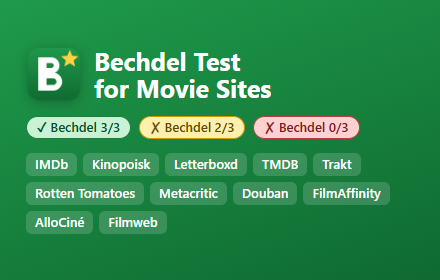
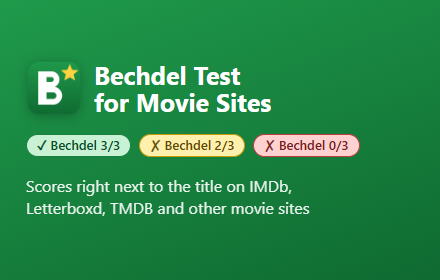
Stop naming supported sites in the store listing
The store rejected 2.0.0 again as "Yellow Argon", this time for a
sentence naming six sites. Describe the eleven sites by count and region
with a link to the full list, and replace the site chips on the promo
tile with a short tagline.

diff --git a/store/listing.md b/store/listing.md
@@ -3,9 +3,10 @@
 Source for the fields of the Developer Dashboard. The name and the summary come
 from the manifest (`src/manifest.ts`); everything else is entered by hand.
 
-Name the sites once, in sentences that say what they are, never as a bare list:
-a bulleted list of all supported sites was rejected as excessive keywords
-(violation "Yellow Argon").
+Do not name the supported sites in the description: a bulleted list of all of
+them, and then a sentence naming six of them, were both rejected as excessive
+keywords (violation "Yellow Argon"). The summary in the manifest, which names
+four, passed. Point to the project page for the full list instead.
 
 ## Store listing
 
@@ -27,10 +28,9 @@ bechdeltest.com, where its community has rated more than 10,000 movies.
 ON MOVIE SITES
 A badge next to the title shows the score from 0 to 3 and links to the movie's
 page on bechdeltest.com. Movies that are not rated yet get a link to add them.
-It works on the big international catalogs IMDb, TMDB, Letterboxd, Trakt,
-Rotten Tomatoes and Metacritic, and on popular regional ones: Kinopoisk in
-Russia, Douban in China, FilmAffinity in Spain, AlloCiné in France and Filmweb
-in Poland.
+It works on eleven popular movie sites, from international catalogs to
+regional ones in Russia, China, Spain, France and Poland. The full list is on
+the project page: https://github.com/rrokot/bechdel-test-for-movie-sites
 
 ON BECHDELTEST.COM
 • IMDb and Kinopoisk ratings before every movie, color-coded and linked
@@ -44,8 +44,7 @@ No account, no API key, no tracking. The extension keeps a local copy of the
 public bechdeltest.com list and only sends movie IDs and titles to the rating
 sources. It never records which pages you visit.
 
-Unofficial: not affiliated with bechdeltest.com, IMDb or the other sites.
-Open source: https://github.com/rrokot/bechdel-test-for-movie-sites
+Unofficial: not affiliated with bechdeltest.com or any of the movie sites.
 
 ### Graphics
 
